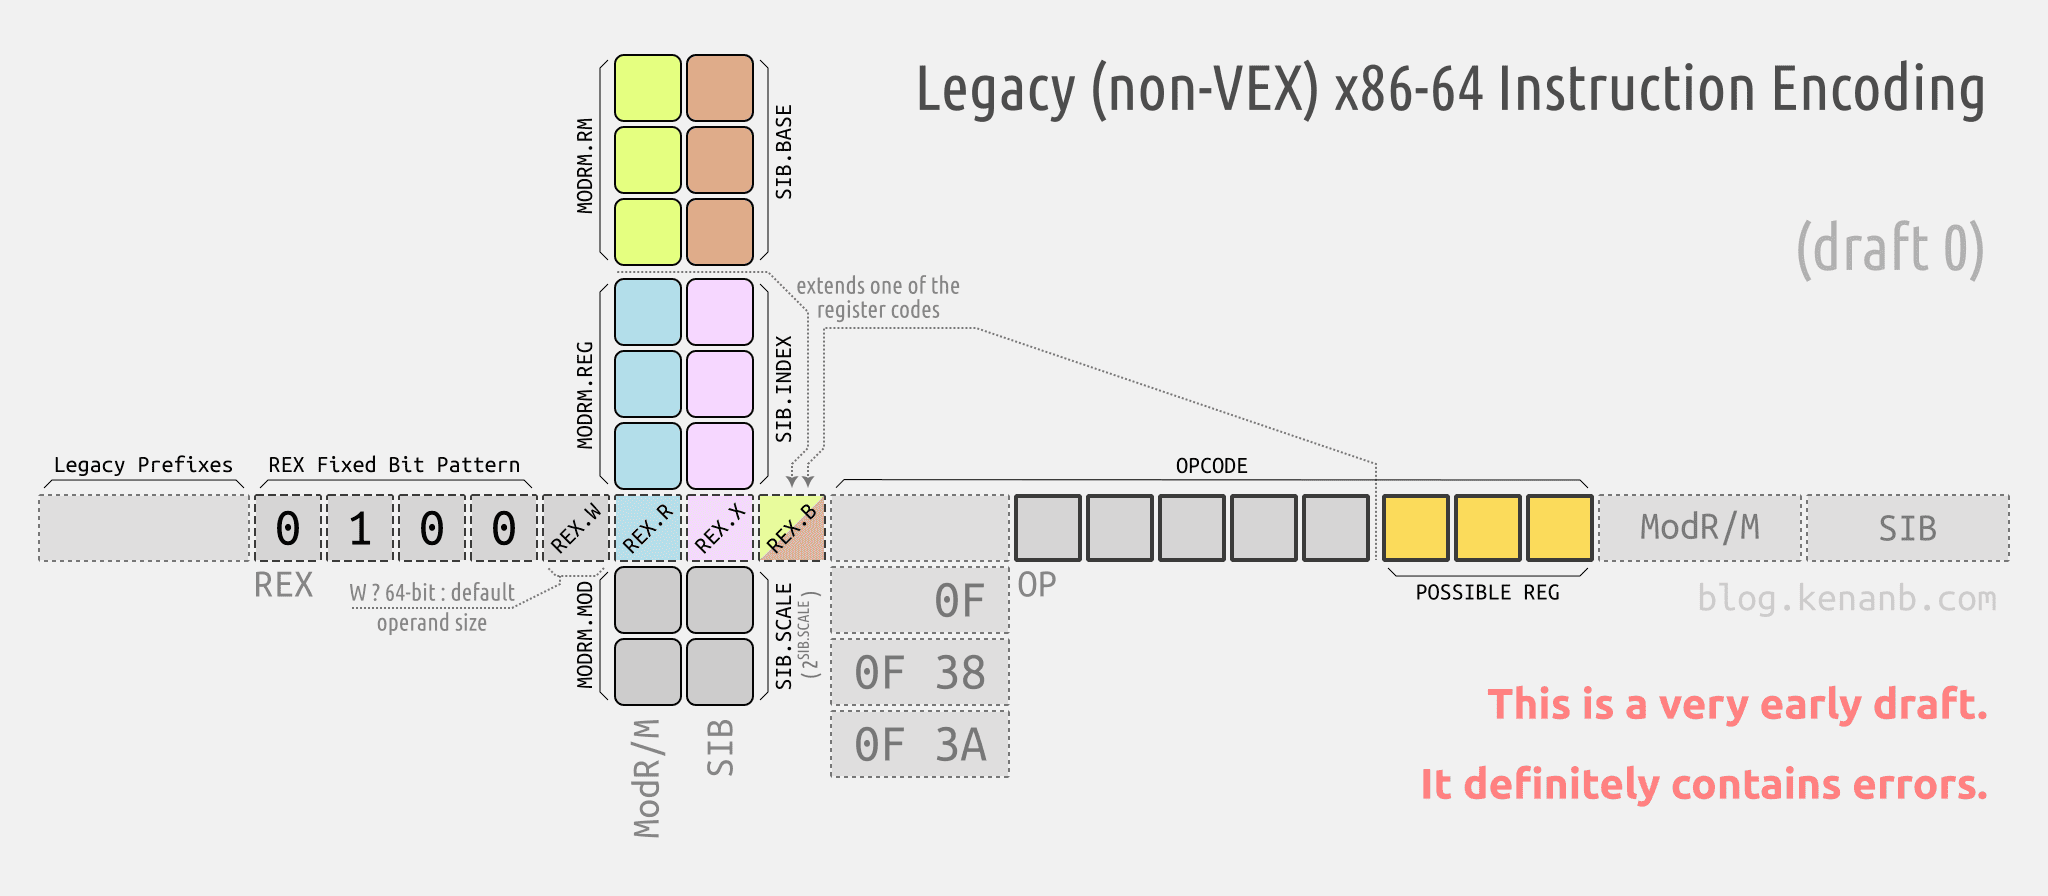
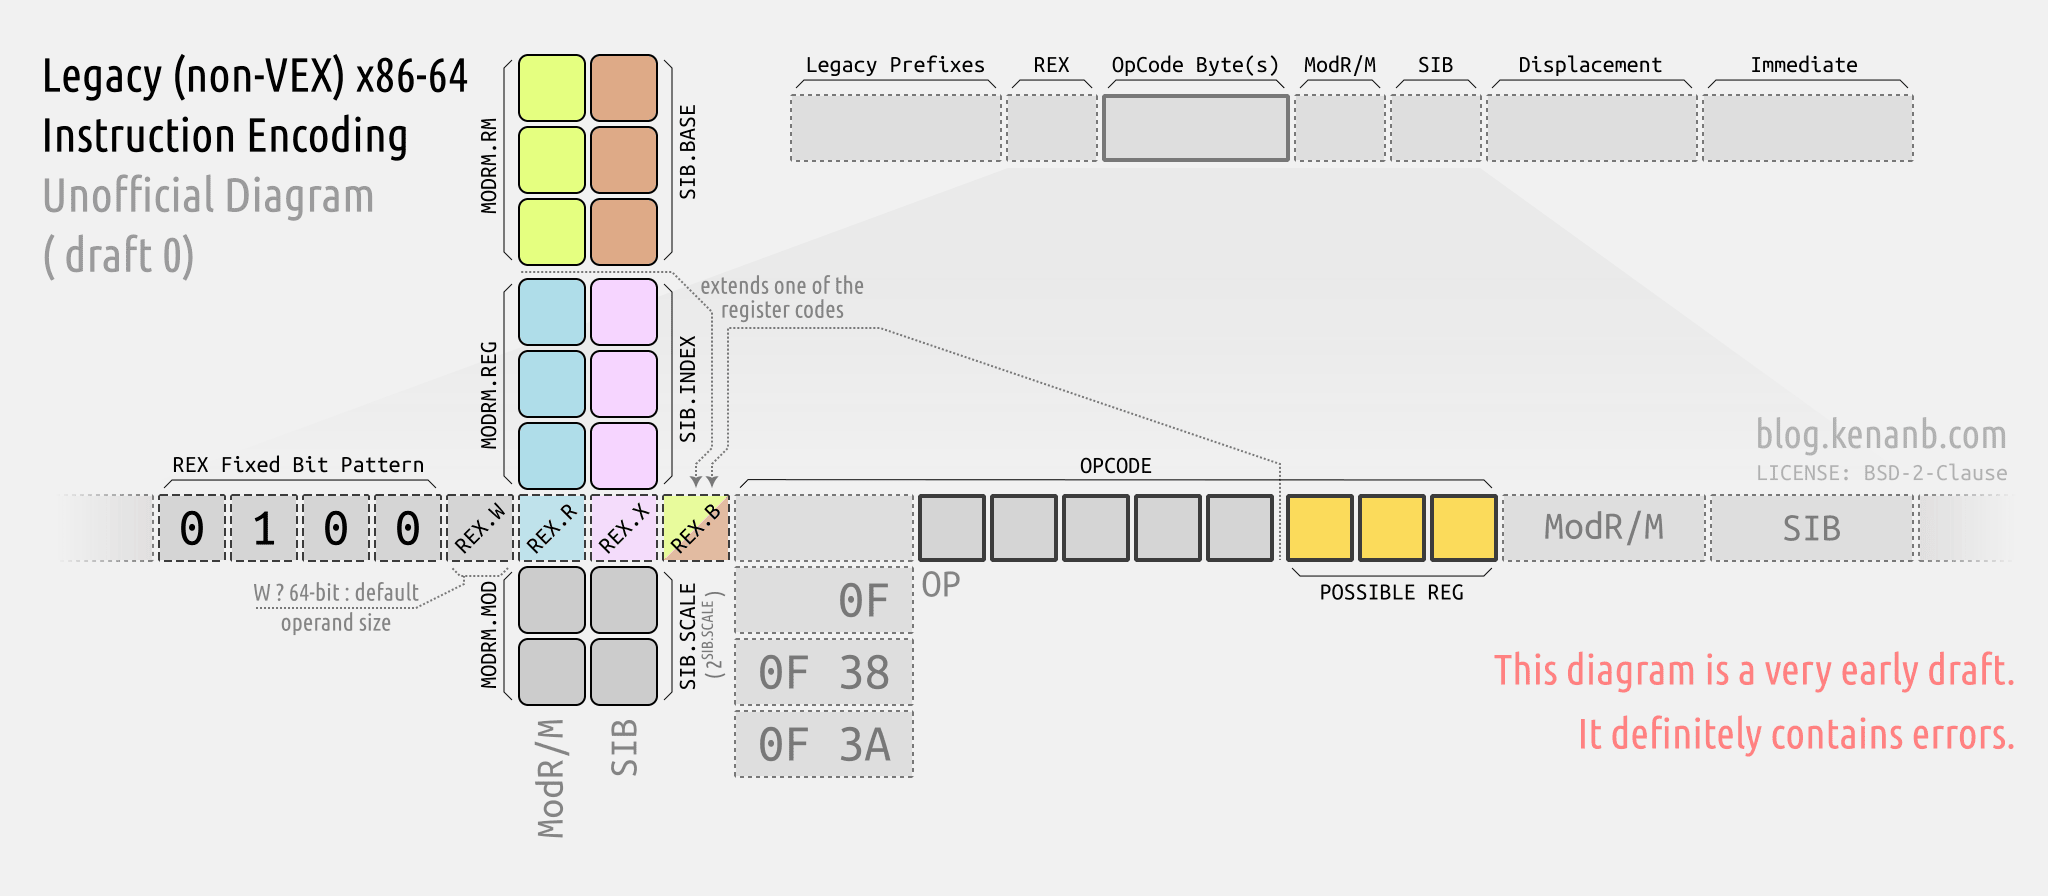
Added new post: An Encoding Diagram Attempt

diff --git a/_posts/2024-01-06-encoding-diagram-attempt.md b/_posts/2024-01-06-encoding-diagram-attempt.md
@@ -1,0 +1,163 @@
+---
+layout: post
+title:  "An Encoding Diagram Attempt"
+date:   2024-01-06 16:00:00 +1300
+categories: code low-level
+published: true
+---
+
+I tried to generate a diagram of the x86-64 legacy encoding based on what I know so far.
+
+In [the last post][int-asm-4], we dove into the x86-64 binary we generated earlier, and figure out the encoding.
+
+[ *Check out all posts in "low-level" series [here][series-low-level].* ]
+
+[series-low-level]: {% link series.md %}#low-level
+
+Recently, based on my limited (and possibly faulty) understanding, I drew an encoding diagram to help myself hand-decode x86-64. Today, I decided to share that diagram.
+
+We will also test it with a few instruction variations. Hopefully, it will at least help someone build a minimal mental model.
+
+## Addressing Modes
+
+Understanding the complete encoding requires understanding the all possible "addressing modes" used in x86 family, in detail. However, the nomenclature regarding addressing modes varies.
+
+**I am pretty much a newbie in assembly.** So I rather avoid adding further to the confusion by trying to document addressing modes. I just skimmed [this StackOverflow answer][so-addressing-modes] and [this blog post][yossarian-addressing-modes], both look like good, detailed descriptions.
+
+But I will mention a few "building block" terms to help read the diagram.
+
+These three terms will show up in the `SIB byte`:
+- Base: A base address stored in a register.
+- Index: A, possibly scaled, numeric offset stored in a register.
+- Scale: A scaling factor, scaling options being 1, 2, 4, and 8, stored in the instruction.
+
+While at it, I also often encounter these terms that refer to static `displacements` encoded in the instruction:
+- Absolute: Means there is a static address literally encoded in the instruction.
+- Offset: Means there is a static numeric offset literally encoded in the instruction.
+
+If you read up further on addressing modes, note that there are also cases where two addressing methods sound identical, while they are subtly different [due to encoding limitations][so-addressing-modes].
+
+## Encoding Diagram
+
+Below is the diagram. It doesn't document [VEX encoding][wikipedia-vex-prefix]. This is just the legacy encoding with REX prefix. The `ModR/M` and `SIB` bytes) are vertically placed (least-significant-bit being the top), to emphasize that REX byte "extends" the values stored of those bytes. Their actual placement in the instruction layout should also be clear.
+
+![Legacy (non-VEX) x86-64 Instruction Encoding](/assets/img/x86-64-insn-encoding.png){: width="740" }
+
+The source of this diagram is (and future iterations will be) [available here in SVG form][diagram-x86-insn-encoding].[^1]
+
+Right click and open the image in new tab to see the diagram in full size.
+
+### Other Resources
+
+Of course, this is inherently complicated. x86-only and simpler diagrams in [Encoding Real x86 Instructions][encoding-real-x86-insn] page are super useful for learning the layout without the added complexity of the REX prefix.
+
+As usual, if you need reliable information on this, you should check out Intel's [Software Developer's Manual][intel-sdm] and AMD's [AMD64 Architecture Programmer's Manual][amd-apm] volumes.
+
+## Testing
+
+Now, let's start testing with an instruction, and make modifications based on the diagram.
+
+We start with `mov r8,rcx`. If we assemble this, we get `49 89 c8`.
+
+The `4` (`b0100`) at the beginning matches the REX Fixed Bit Pattern.
+
+The second byte is **not** `0F`, so this instruction has a single-byte opcode. Therefore,`89` is the opcode.
+
+According to [reference table][x86-64-insn-ref-89], opcode `89` doesn't store any register values itself. But it states that `ModR/M.reg` stores a register.
+
+Therefore:
+```
+REX   : 49
+OPCODE: 89
+MODR/M: c8
+```
+
+Now that we know the overall instruction layout, let's figure out the details.
+
+### REX Prefix
+
+Looking at the REX byte (`49`) in binary:
+```
+0100 1001
+```
+
+The remaining bits (`1001`) of the REX byte are:
+```
+REX.W: 1
+REX.R: 0
+REX.X: 0
+REX.B: 1
+```
+
+- `REX.W` flag being set means the instruction uses 64 bit operands.
+- `REX.B` is going to extend some register code somewhere, effectively adding 8 to its value.
+
+Since opcode doesn't encode a register itself, and since there is no SIB byte, I guess it is `ModR/M.rm` being extended. (I am actually not sure if this reasoning is solid enough to cover all cases.)
+
+It is easy to visually confirm if there is an "extended" register code, because it should show up as a register that has a numeric name pattern from `R8*` to `R15*` instead of something like `RDX`.
+
+Remember, our assembly instruction was: `mov r8,rcx`. We can see the effect of `REX.W` being set, as 64-bit registers are used.
+- If we disassemble the version that has `REX.W` unset (`41 89 c8`), we get `mov r8d, ecx` which has 32-bit register operands.
+- And if we toggle `REX.B` instead (`48 89 c8`), we get `mov rax, rcx`, which replaced `r8` with `rax`. Register code for `rax` is 0, and register code for `r8` is 8.
+- We can also try to toggle `REX.R`, which is supposed to extend the `ModR/M.reg` slot. Disassembling `4d 89 c8` will give us `mov r8, r9`. So this time, `rcx` became `r9`.
+- Since there is no `SIB` byte, I assume `REX.X` doesn't have an impact for this instruction. (I am not sure if toggling that is valid or not.)
+
+So the mystery of the REX is solved, and there is nothing to decode in the opcode itself.
+
+We can move on to the ModR/M byte.
+
+### ModR/M Byte
+
+We will split the ModR/M byte (`c8`) in binary form, into octal groups:
+```
+MOD:  11
+REG: 001
+RM : 000
+```
+
+The opcode already established that `ModR/M.reg` stores a register, not an opcode extension.
+
+REX.R extends `ModR/M.reg`, but it is unset. So effective register code for `ModR/M.reg` is 1, which means `rcx`.
+
+REX.B extends `ModR/M.rm`, and it is set. So effective register code for `ModR/M.rm` is 8, which means `r8`.
+
+- If we bump `ModR/M.rm` by 1 (`49 89 c9`), we get `mov r9, rcx`.
+- If we instead bump `ModR/M.reg` by 1 (`49 89 d0`), we get `mov r8, rdx`.
+
+So the overall encoding looks like this:
+```
+          ____________________
+         /                    \
+0100 1001  10001001  11  001  (B)000
+     |  |  MOV        | %RCX ,   %R8
+     |  |             |
+64-bit  extend        register addressing
+        ModR/M.rm
+```
+
+### The End
+
+That's it!
+
+I think this is all I want to write about instruction encoding for a while. But I learned a lot in the process.
+
+In the next post, I will share a list of resources that I found while writing these posts, and wrap this topic. But the "low-level" series will continue.
+
+Thanks for reading!
+
+[^1]: I am not very experienced in assembly. If you find errors, please report in the blog's [Issues page][report].
+
+[report]: https://github.com/kenanb/kenanb-blog/issues
+
+[int-asm-1]: {% post_url 2024-01-02-minimal-x86-64-binary %}
+[int-asm-2]: {% post_url 2024-01-03-syntax-choices-for-x86 %}
+[int-asm-3]: {% post_url 2024-01-04-x86-insn-encoding %}
+[int-asm-4]: {% post_url 2024-01-05-x86-64-insn-encoding %}
+[so-addressing-modes]: https://stackoverflow.com/a/34058400
+[yossarian-addressing-modes]: https://blog.yossarian.net/2020/06/13/How-x86_64-addresses-memory
+[diagram-x86-insn-encoding]: https://github.com/kenanb/kenanb-blog/tree/main/diagram/x86-insn-encoding
+[wikipedia-vex-prefix]: https://en.wikipedia.org/wiki/VEX_prefix
+[encoding-real-x86-insn]: http://www.c-jump.com/CIS77/CPU/x86/lecture.html
+[intel-sdm]: https://www.intel.com/content/www/us/en/developer/articles/technical/intel-sdm.html
+[amd-apm]: https://www.amd.com/en/search/documentation/hub.html#q=AMD64%20Architecture&sortCriteria=%40amd_release_date%20descending&f-amd_product_type=Processors&f-amd_document_type=Programmer%20References
+[x86-64-insn-ref-89]: http://ref.x86asm.net/coder64.html#x89
